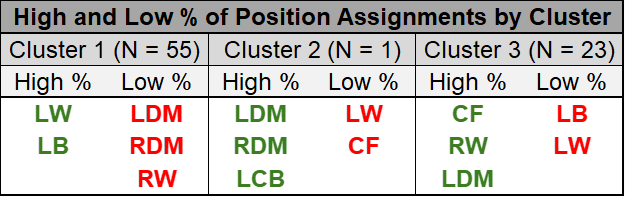
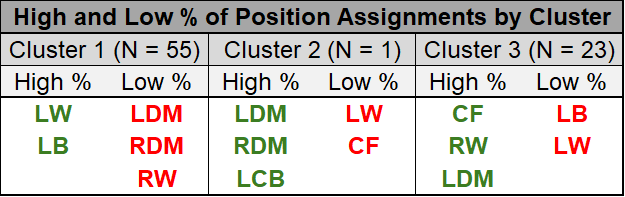
fixed team_counts image

diff --git a/frame-by-frame-position-cluster.md b/frame-by-frame-position-cluster.md
@@ -63,7 +63,7 @@ On the other hand, a central midfielder will probably have a few teammates in si
 This relationship between the direction a player is facing and the number of visible teammates is represented in the following tables.
 
 <p align="center">
-  <img src="https://github.com/gkrhines/research/blob/main/src/teammate_counts.png" alt="drawing" width="700"/>
+  <img src="https://github.com/gkrhines/research/blob/main/src/teammate_counts.jpeg" alt="drawing" width="700"/>
 </p>
 
 When compared side-by-side, it makes complete sense that players who play on the opposite sides of the field also have inverse relationships to one another. Furthermore, if we were to split each position's performance based on the half it was played in (and didn't normalize the direction of play), we would see a similar converse relationship.
